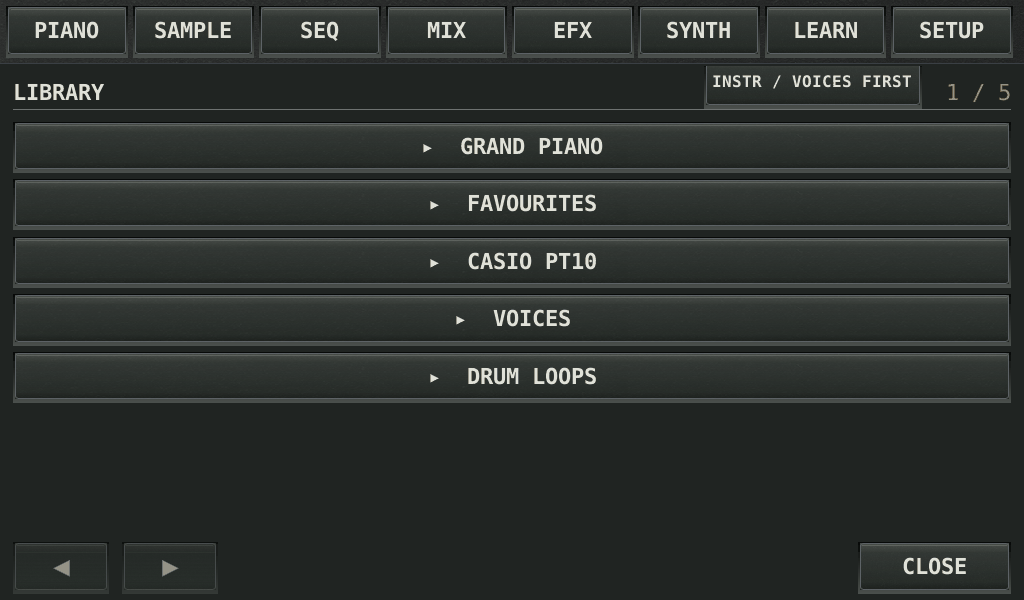
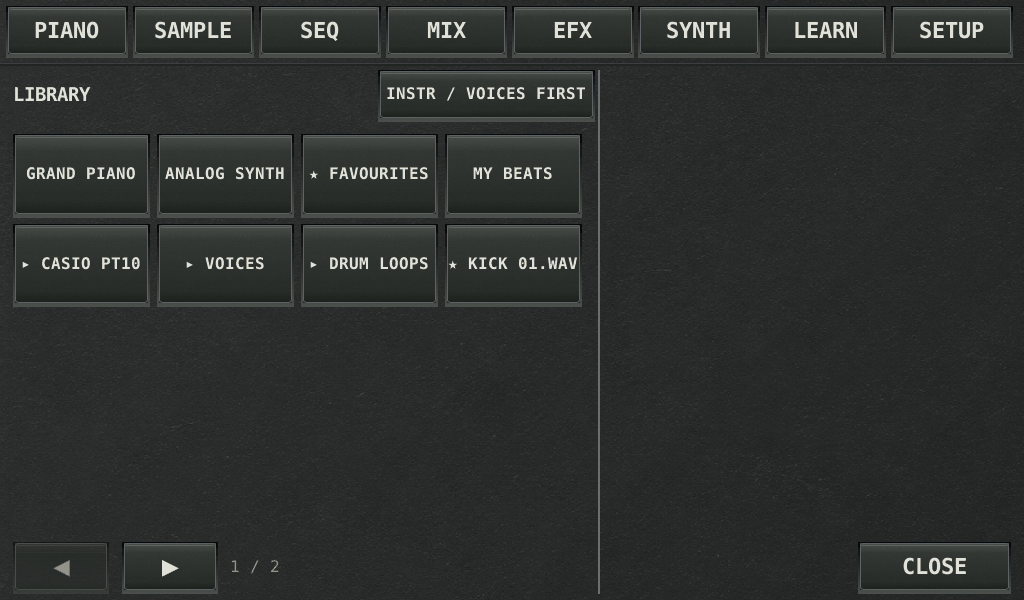
PianoBox: tile browser and projects — new LIBRARY, SETUP and PROJECTS screenshots, captions, card bullet

Changed region(s): [[0.0, 0.09, 1.0, 0.69], [0.2188, 0.93, 0.25, 0.96], [0.1562, 0.93, 0.1875, 0.96]]

diff --git a/projects/pianobox.html b/projects/pianobox.html
@@ -177,10 +177,18 @@
         </figure>
 
         <figure class="shot border-hairline bg-mono-950">
-          <img src="../images/pianobox/browser.png" alt="Library browser listing sample folders and favourites" class="w-full cursor-pointer" onclick="openModal(this.src, 'LIBRARY')">
+          <img src="../images/pianobox/browser.png" alt="Library browser: a grid of sound tiles with an info panel and PICK button" class="w-full cursor-pointer" onclick="openModal(this.src, 'LIBRARY')">
           <figcaption class="p-4 border-hairline-t">
             <div class="font-mono text-xs text-accent-orange mb-1">LIBRARY</div>
-            <p class="text-xs sm:text-sm text-mono-300 leading-relaxed">Folders of sounds, your recordings, and a star for favourites. New sounds arrive from a USB stick through SETUP › ADD SOUNDS / USB: each folder with WAV files becomes a library folder.</p>
+            <p class="text-xs sm:text-sm text-mono-300 leading-relaxed">Big tiles, eight per page: pianos, synth, your favourites, your own libraries and every folder of sounds. Tap once to see what it is, tap again to pick it. STAR it, ADD TO LIBRARY, or delete your own recordings. New sounds arrive from a USB stick through SETUP › ADD SOUNDS / USB.</p>
+          </figcaption>
+        </figure>
+
+        <figure class="shot border-hairline bg-mono-950">
+          <img src="../images/pianobox/projects.png" alt="Project browser: tiles for each song with OPEN, RENAME, EXPORT TO USB and DELETE" class="w-full cursor-pointer" onclick="openModal(this.src, 'PROJECTS')">
+          <figcaption class="p-4 border-hairline-t">
+            <div class="font-mono text-xs text-accent-orange mb-1">PROJECTS</div>
+            <p class="text-xs sm:text-sm text-mono-300 leading-relaxed">Every song is a project with its own favourites, libraries and effect settings. SETUP › PROJECT opens them as tiles: + NEW, OPEN, RENAME, DELETE, and EXPORT TO USB, which copies the song, a MIDI file and every sound it uses so another PianoBox can play it.</p>
           </figcaption>
         </figure>
 
@@ -260,7 +268,7 @@
           <img src="../images/pianobox/setup.png" alt="Setup page with device info, SD card usage, screen size, standby, pedal and help buttons" class="w-full cursor-pointer" onclick="openModal(this.src, 'SETUP')">
           <figcaption class="p-4 border-hairline-t">
             <div class="font-mono text-xs text-accent-orange mb-1">SETUP</div>
-            <p class="text-xs sm:text-sm text-mono-300 leading-relaxed">Screen size (auto-detected), what the pedal does, metronome level, standby, touch calibration, adding sounds from USB, and live audio and CPU figures for the grown-up.</p>
+            <p class="text-xs sm:text-sm text-mono-300 leading-relaxed">PROJECT / your song's name opens the project browser. Then screen size (auto-detected), standby, adding sounds from USB, what the pedal does, metronome level, touch calibration, and live audio and CPU figures for the grown-up.</p>
           </figcaption>
         </figure>
 

diff --git a/index.html b/index.html
@@ -644,6 +644,7 @@
             "Record your own sounds, trim, loop, reverse, chop onto the keys and play them back",
             "Eight-layer MIDI song recorder with count-in, quantize, piano roll and clip editing",
             "Eight effects, four master compressor flavours and a lookahead limiter, all with knobs you can hear",
+            "Projects with their own favourites, libraries and effect settings; export one to USB with its sounds",
             "Chord trainer on the circle of fifths with stars, lessons and a built-in help page per screen"
         ],
         tags: ["Music", "Education", "Raspberry Pi", "Rust", "Slint", "MIDI", "Sampler", "Synth", "Open Source"]

diff --git a/update_index.py b/update_index.py
@@ -654,6 +654,7 @@ INDEX_HTML = """<!DOCTYPE html>
             "Record your own sounds, trim, loop, reverse, chop onto the keys and play them back",
             "Eight-layer MIDI song recorder with count-in, quantize, piano roll and clip editing",
             "Eight effects, four master compressor flavours and a lookahead limiter, all with knobs you can hear",
+            "Projects with their own favourites, libraries and effect settings; export one to USB with its sounds",
             "Chord trainer on the circle of fifths with stars, lessons and a built-in help page per screen"
         ],
         tags: ["Music", "Education", "Raspberry Pi", "Rust", "Slint", "MIDI", "Sampler", "Synth", "Open Source"]
